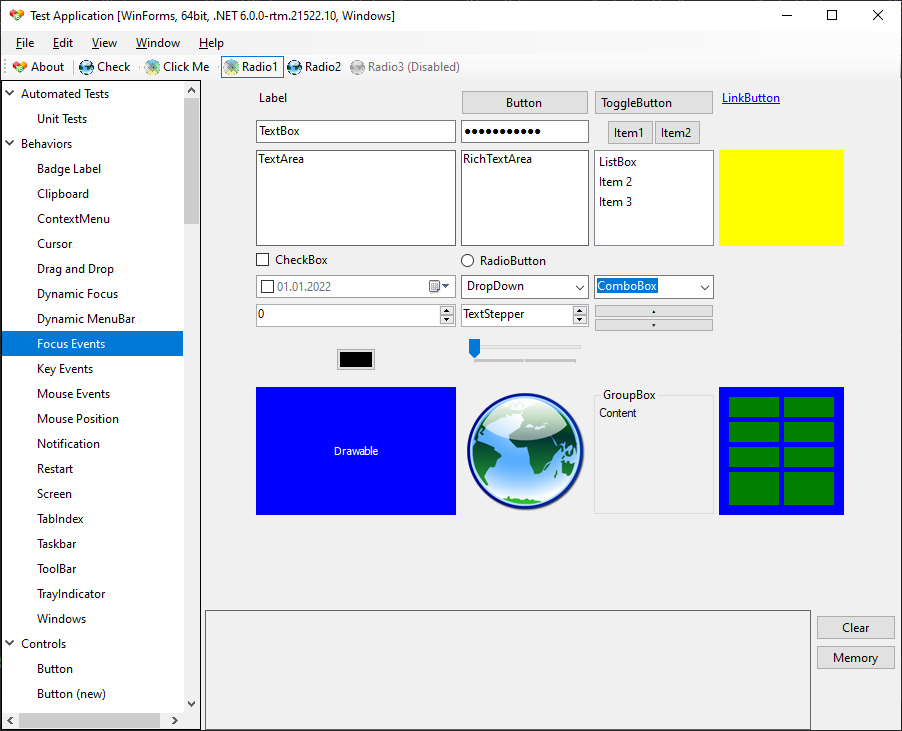
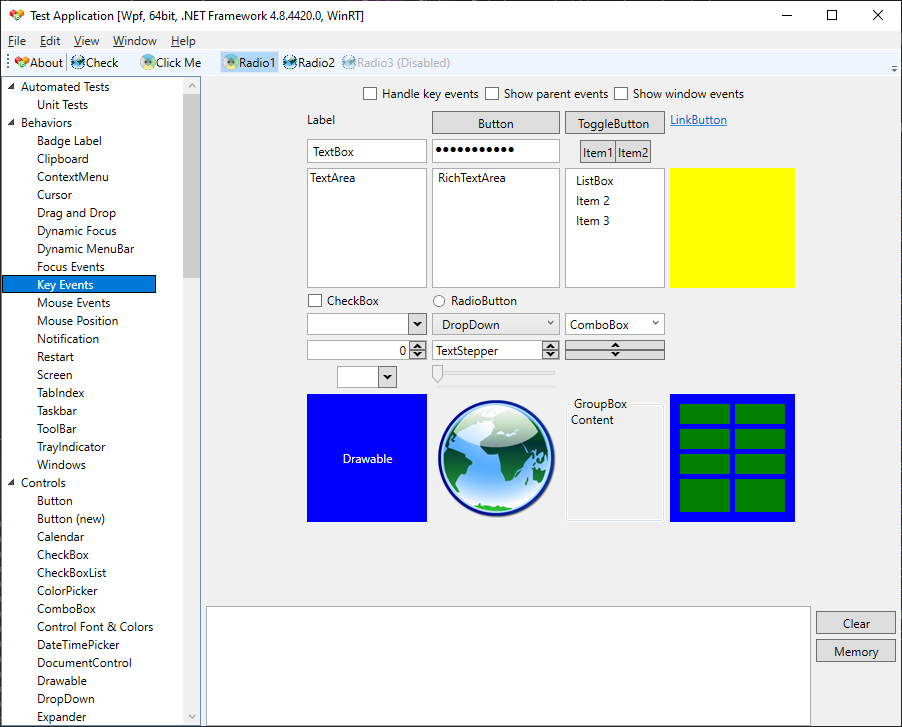
Readme: use WPF screenshot instead of winforms

diff --git a/README.md b/README.md
@@ -74,8 +74,8 @@ To compile or contribute to Eto.Forms, read the [Contributing Guide](https://git
 
 Screenshots
 -----------
-Windows via WinForms:  
-<img src="/images/windows.png" width=75% height=75%>  
+Windows via WPF:  
+<img src="./images/windows.png" width=75% height=75%>  
 Mac via MonoMac:  
 <img src="./images/mac.png" width=75% height=75%>  
 Linux via GTK#3:  
